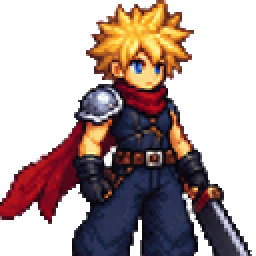
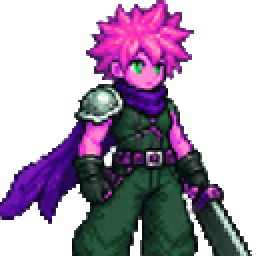
feat(ffm): show the hero pack only to a player named TOGGLE; hue-shift the stand-in heroes
feature-flags.js holds one player-name toggle per unreleased feature. The hero skin, identity portrait, app
picker, profile portrait and web account picker all read it. The nine pack heroes are now hue-shifted copies of
the existing hero (hero_placeholder_tint.py) so they can be told apart while real sprites are pending.

diff --git a/sites/ffm/static/game/main.js b/sites/ffm/static/game/main.js
@@ -42,6 +42,7 @@ import {
 import { CookieConsent } from './cookie-consent.js';
 import { createHeroSkinManager, loadHeroSkin } from './hero-skin.js';
 import { resolveHero, HEROES } from './heroes.js';
+import { featureOn } from './feature-flags.js';
 import { renderHeroIdentity } from './hero-identity.js';
 import { preloadGameAssets, preloadAbilityIcons, buildCriticalAssetManifest, buildDeferredAssetManifest } from './asset-preload.js';
 import { updateHealHold, getHealHoldRatio, isInHealZone } from './heal-hold.js';
@@ -356,8 +357,20 @@ function hideLoadingOverlay() {
 // The stored hero the player may use; null (logged out, revoked, unreadable)
 // means the adventurer. platform.getActiveHeroSkin() never rejects, and the
 // choice itself stays stored when it is not honoured.
+// The hero pack is still being tested: it shows only for a player named TOGGLE (feature-flags.js).
+// App: the active local profile; web: the logged-in account name. Read the adapter, not
+// activeLocalPlayer, because this runs before that variable exists.
+function heroPackOn() {
+  try {
+    const name = platform.isApp ? platform.localProfiles?.getActiveProfile?.()?.name : platform.username;
+    return featureOn('heroPack', name);
+  } catch {
+    return false;
+  }
+}
 async function resolveActiveHeroId() {
   try {
+    if (!heroPackOn()) return resolveHero(null).id;
     return resolveHero(await platform.getActiveHeroSkin?.(), { entitled: true }).id;
   } catch {
     return resolveHero(null).id;
@@ -1575,10 +1588,10 @@ async function paintHeroIdentity() {
   if (platform.isApp) {
     for (const id of ['playing-as', 'progress-player-name', 'pause-player-name']) {
       const row = document.getElementById(id)?.parentElement;
-      if (row) renderHeroIdentity(row, activeLocalPlayer?.name ? hero : null, { t });
+      if (row) renderHeroIdentity(row, heroPackOn() && activeLocalPlayer?.name ? hero : null, { t });
     }
   } else if (splashGreeting) {
-    renderHeroIdentity(splashGreeting, platform.isLoggedIn && splashGreeting.textContent ? hero : null, { t });
+    renderHeroIdentity(splashGreeting, heroPackOn() && platform.isLoggedIn && splashGreeting.textContent ? hero : null, { t });
   }
 }
 
@@ -2471,7 +2484,7 @@ async function mountAccountHeroPicker(profile) {
   accountHeroMount?.destroy();
   accountHeroMount = null;
   if (!accountHeroPicker) return;
-  if (!platform.isLoggedIn) {
+  if (!platform.isLoggedIn || !heroPackOn()) {
     accountHeroPicker.hidden = true;
     return;
   }
@@ -5204,6 +5217,7 @@ const ensureLocalProfiles = createRetryableInitialization(async () => {
         },
         canSwitch: canSwitchProfiles,
         portraitFor: heroPortraitFor,
+        heroFeature: () => heroPackOn(),
         onChangeHero: profile => { void openHeroPicker(profile); },
         onSelected: async () => {
           clearMissedProblemsForOwner(platform.localProfiles.getActiveProfile().id);

diff --git a/sites/ffm/static/game/feature-flags.test.js b/sites/ffm/static/game/feature-flags.test.js
@@ -1,0 +1,28 @@
+import { test } from 'node:test';
+import assert from 'node:assert/strict';
+import { readFile } from 'node:fs/promises';
+import { featureOn, FEATURE_PLAYER_NAMES } from './feature-flags.js';
+
+test('the hero pack shows only for a player named TOGGLE', () => {
+  assert.equal(FEATURE_PLAYER_NAMES.heroPack, 'TOGGLE');
+  assert.equal(featureOn('heroPack', 'TOGGLE'), true);
+  assert.equal(featureOn('heroPack', '  TOGGLE '), true);
+  for (const name of ['toggle', 'Toggle', 'TOGGLE2', 'Mia', '', null, undefined, 42]) {
+    assert.equal(featureOn('heroPack', name), false, String(name));
+  }
+});
+
+test('an unknown feature is off for every name', () => {
+  assert.equal(featureOn('nope', 'TOGGLE'), false);
+  assert.equal(featureOn('constructor', 'TOGGLE'), false);
+});
+
+test('main.js gates the skin, identity portrait, app picker and web picker on the toggle', async () => {
+  const source = await readFile(new URL('./main.js', import.meta.url), 'utf8');
+  assert.match(source, /import \{ featureOn \} from '\.\/feature-flags\.js'/);
+  assert.match(source, /function heroPackOn\(/);
+  assert.match(source, /async function resolveActiveHeroId\(\) \{\s*try \{\s*if \(!heroPackOn\(\)\) return resolveHero\(null\)\.id;/);
+  assert.match(source, /heroFeature: \(\) => heroPackOn\(\)/);
+  assert.match(source, /if \(!platform\.isLoggedIn \|\| !heroPackOn\(\)\) \{\s*accountHeroPicker\.hidden = true;/);
+  assert.match(source, /heroPackOn\(\) && platform\.isLoggedIn && splashGreeting\.textContent/);
+});

diff --git a/sites/ffm/mobile/game/profile-ui.js b/sites/ffm/mobile/game/profile-ui.js
@@ -22,7 +22,7 @@ const LABELS = {
 
 export function mountProfileUI({
   root, adapter, translate = (key) => LABELS[key], canSwitch = () => true,
-  portraitFor = null, onChangeHero = null,
+  portraitFor = null, onChangeHero = null, heroFeature = () => true,
   onSelected = () => {}, onError = () => {}, onBusyChange = () => {},
 }) {
   if (!root?.ownerDocument) throw new TypeError('A profile UI root is required');
@@ -198,9 +198,9 @@ export function mountProfileUI({
           blocked: true, className: 'profile-select',
         });
         select.setAttribute('aria-pressed', String(profile.id === activeId));
-        if (typeof portraitFor === 'function') row.append(portrait(portraitFor(profile)));
+        if (heroFeature() && typeof portraitFor === 'function') row.append(portrait(portraitFor(profile)));
         row.append(select);
-        if (typeof onChangeHero === 'function' && profile.id === activeId) {
+        if (heroFeature() && typeof onChangeHero === 'function' && profile.id === activeId) {
           row.append(button(text('heroes.change'), () => onChangeHero(profile), {
             blocked: true, className: 'profile-change-hero',
             ariaLabel: `${text('heroes.change')}: ${profile.name}`,

diff --git a/sites/ffm/static/game/feature-flags.js b/sites/ffm/static/game/feature-flags.js
@@ -1,0 +1,14 @@
+// Player-name feature toggle. A feature that is still being tested ships in every build but
+// shows only for a player whose name is exactly the toggle name below, so the owner can try it
+// on any build (web or app) without a setting or a server change. Remove a feature's row when
+// it is released. Pure logic: no imports, no DOM, no network.
+
+export const FEATURE_PLAYER_NAMES = Object.freeze({
+  heroPack: 'TOGGLE',
+});
+
+/** True when `name` (leading and trailing spaces ignored, case kept) is the toggle name of `feature`. */
+export function featureOn(feature, name) {
+  const wanted = FEATURE_PLAYER_NAMES[feature];
+  return typeof wanted === 'string' && typeof name === 'string' && name.trim() === wanted;
+}

diff --git a/sites/ffm/static/game/hero-identity.test.js b/sites/ffm/static/game/hero-identity.test.js
@@ -86,6 +86,7 @@ function channel({ isApp, isLoggedIn = true, stored = 'monk', name = 'Ann' }) {
     activeLocalPlayer: { name }, splashGreeting, t, renderHeroIdentity, resolveHero,
     document: { getElementById: (id) => { queried.push(id); return elements[id]; } },
     resolveActiveHeroId: async () => stored,
+    heroPackOn: () => true,
   };
   vm.createContext(context);
   vm.runInContext(source.match(/let heroIdentitySeq[\s\S]*?\n\}\n/)[0] + '\nthis.paint = paintHeroIdentity;', context);

diff --git a/sites/ffm/scripts/hero_placeholder_tint.py b/sites/ffm/scripts/hero_placeholder_tint.py
@@ -1,0 +1,52 @@
+#!/usr/bin/env python3
+"""Interim hero art: give each pack hero a hue-shifted copy of the existing hero.
+
+    hero_placeholder_tint.py            rebuild heroes/<id>/hero-atlas.webp, hero-frames.js, portrait.webp
+                                        for the nine pack heroes from static/game/hero/ (the adventurer is untouched)
+
+Stand-in until real sprites exist: same pixels, a different hue per hero, so the roster is tellable apart.
+Overwriting a hero's three files with real art replaces its tint; delete its row here when it does.
+"""
+import colorsys
+import shutil
+from pathlib import Path
+
+import numpy as np
+from PIL import Image
+
+GAME = Path(__file__).resolve().parents[1] / "static" / "game"
+SHIFT_DEGREES = {
+    "adventuress": 40, "princess": 320, "princess-armed": 280, "rogue": 100, "rogue-f": 140,
+    "soldier": 200, "soldier-f": 240, "monk": 70, "priestess": 170,
+}
+
+
+def shift_hue(image: Image.Image, degrees: float) -> Image.Image:
+    rgba = np.asarray(image.convert("RGBA"), dtype=np.uint8)
+    alpha = rgba[..., 3]
+    hsv = np.asarray(Image.fromarray(rgba[..., :3], "RGB").convert("HSV"), dtype=np.int16)
+    hsv[..., 0] = (hsv[..., 0] + round(degrees / 360 * 256)) % 256
+    rgb = np.asarray(Image.fromarray(hsv.astype(np.uint8), "HSV").convert("RGB"))
+    return Image.fromarray(np.dstack([rgb, alpha]), "RGBA")
+
+
+def portrait_of(atlas: Image.Image) -> Image.Image:
+    idle = atlas.crop((0, 0, 144, 163))
+    return idle.crop((8, 0, 136, 128)).resize((256, 256), Image.NEAREST)
+
+
+def main() -> None:
+    atlas = Image.open(GAME / "hero" / "hero-atlas.webp").convert("RGBA")
+    for hero, degrees in SHIFT_DEGREES.items():
+        out = GAME / "heroes" / hero
+        out.mkdir(parents=True, exist_ok=True)
+        tinted = shift_hue(atlas, degrees)
+        tinted.save(out / "hero-atlas.webp", "WEBP", lossless=True, quality=100, method=6)
+        portrait_of(tinted).save(out / "portrait.webp", "WEBP", lossless=True, quality=100, method=6)
+        shutil.copy(GAME / "hero" / "hero-frames.js", out / "hero-frames.js")
+        print(f"{hero}: hue {degrees:+d} deg, atlas {(out / 'hero-atlas.webp').stat().st_size} B, "
+              f"portrait {(out / 'portrait.webp').stat().st_size} B")
+
+
+if __name__ == "__main__":
+    main()

diff --git a/sites/ffm/static/game/heroes/PROVENANCE.md b/sites/ffm/static/game/heroes/PROVENANCE.md
@@ -36,11 +36,12 @@ Raw sheets are not committed. Date: 2026-11-16.
 
 The generated hero art did not work out (every try read as an existing game character), and a human artist will
 make the real sprites. Until then all ten roster heroes use the game's existing hero so the pack can be tested end
-to end: `heroes/<id>/hero-atlas.webp` and `hero-frames.js` are byte copies of `static/game/hero/` for the nine pack
-heroes (the adventurer still loads `hero/` directly), and every `portrait.webp` is the existing hero's idle-1 head
-and shoulders, cropped 128x128 and scaled x2 nearest-neighbour to 256x256. The earlier generated monk and priestess
+to end. The nine pack heroes get a hue-shifted copy of `static/game/hero/` (a different hue per hero, built by
+`sites/ffm/scripts/hero_placeholder_tint.py`; `hero-frames.js` is a plain copy), and every `portrait.webp` is that
+hero's idle-1 head and shoulders, cropped 128x128 and scaled x2 nearest-neighbour to 256x256. The adventurer keeps
+the original colours and still loads `hero/` directly. The earlier generated monk and priestess
 placeholders and their contact sheets were replaced (they stay in git history). Strike family and display name
-still differ per hero; the look does not. The "NEEDS RE-RENDER" sections below describe the AI attempts and still
+and hue differ per hero; the figure does not. The "NEEDS RE-RENDER" sections below describe the AI attempts and still
 apply: each hero needs real art from the artist. To replace a hero, overwrite its three files and its section.
 
 ## Adventurer
